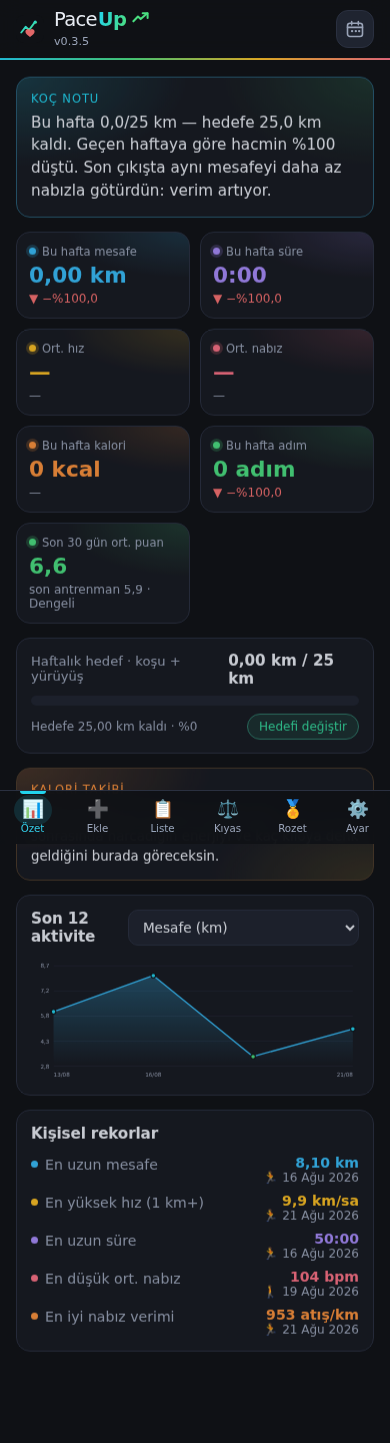
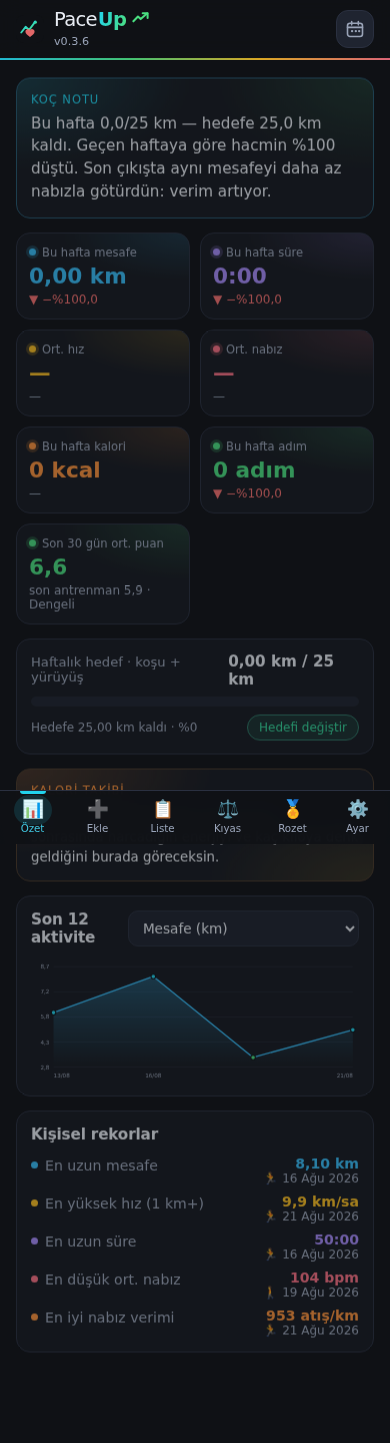
v0.3.6: kilitli rozetlerde eksik mesafe yerine gereken olcut yaziliyor
"Tek kosuda 1,00 km daha" ifadesi, onceki kosunun uzerine ekleniyormus gibi
okunuyordu. Kilitli kartlar artik once ne gerektigini, sonra nerede oldugunu
yaziyor:

- Tek antrenman: "Tek cikista 3 km kosu" + "En uzun kosun: 2,00 km"
- Toplam kosu: "Toplamda 30 km kosu" + "Su an 24,00 km · 6,00 km kaldi"
- Haftalik: "Bir haftada 5 antrenman" + "En yogun haftan: 3 antrenman"
- Seri: "7 gun ust uste antrenman" + "En uzun serin: 4 gun"

Ozet kartindaki siradaki hedef de ayni dile gecti: "Siradaki: Uc bin —
tek cikista 3 km".

Claude-Session: https://claude.ai/code/session_01DCsTEoeQYYAT5YEcPqUbg1

diff --git a/js/app.js b/js/app.js
@@ -11,7 +11,7 @@ import {
   fmtHr, fmtDate, todayIso, fmtPercent,
 } from './format.js';
 
-const APP_VERSION = '0.3.5';
+const APP_VERSION = '0.3.6';
 const $ = (sel) => document.querySelector(sel);
 const $$ = (sel) => [...document.querySelectorAll(sel)];
 
@@ -667,12 +667,44 @@ const MEDAL = (color, on) => `
             stroke-linecap="round"/>`}
   </svg>`;
 
-function badgeProgressText(state) {
+// Kilitli rozette ölçütü tam olarak yazar: "ne gerekiyor" + "şu an neredesin".
+// Tek antrenman rozetlerinde eksik mesafe DEĞİL, gereken mesafe gösterilir —
+// önceki koşuların üstüne eklenmediği net olsun diye.
+const targetKm = (km) => `${fmtNum(km, Number.isInteger(km) ? 0 : 1)} km`;
+
+function badgeRequirement(state) {
+  const { badge, current, remaining } = state;
+  if (badge.kind === 'weekly') {
+    return {
+      need: `Bir haftada ${badge.target} antrenman`,
+      now: `En yoğun haftan: ${current} antrenman`,
+    };
+  }
+  if (badge.kind === 'streak') {
+    return {
+      need: `${badge.target} gün üst üste antrenman`,
+      now: `En uzun serin: ${current} gün`,
+    };
+  }
+  if (badge.kind === 'total') {
+    return {
+      need: `Toplamda ${targetKm(badge.target)} koşu`,
+      now: `Şu an ${fmtKm(current)} · ${fmtKm(remaining)} kaldı`,
+    };
+  }
+  return {
+    need: `Tek çıkışta ${targetKm(badge.target)} koşu`,
+    now: current > 0 ? `En uzun koşun: ${fmtKm(current)}` : 'Henüz koşu kaydın yok',
+  };
+}
+
+// Özet kartındaki "sıradaki hedef" için kısa hâli
+function badgeShortNeed(state) {
   const { badge, remaining } = state;
-  if (badge.kind === 'weekly') return `${Math.ceil(remaining)} antrenman daha`;
-  if (badge.kind === 'streak') return `${Math.ceil(remaining)} gün daha`;
-  if (badge.kind === 'total') return `Toplamda ${fmtKm(remaining)} daha`;
-  return `Tek koşuda ${fmtKm(remaining)} daha`;
+  if (badge.kind === 'weekly') return `bir haftada ${badge.target} antrenman`;
+  if (badge.kind === 'streak') return `${badge.target} gün üst üste`;
+  if (badge.kind === 'total') return `toplamda ${fmtKm(remaining)} daha`;
+  return `tek çıkışta ${targetKm(badge.target)}`;
 }
 
 function badgeEarnedText(state) {
@@ -705,7 +737,7 @@ function renderBadges() {
       <div class="goal-bar"><i style="width:${(earned.length / states.length) * 100}%"></i></div>
       <div class="muted">${earned.length
         ? `Ulaştığın en üst kademe: <b style="color:var(--text)">${topLevel}</b>.${next
-            ? ` Sıradaki: <b style="color:var(--text)">${next.badge.title} (${next.badge.name})</b> — ${badgeProgressText(next)}.`
+            ? ` Sıradaki: <b style="color:var(--text)">${next.badge.title}</b> — ${badgeShortNeed(next)}.`
             : ' Tüm rozetleri topladın.'}`
         : 'Henüz rozet yok. İlk kaydını ekle, merdiven açılmaya başlasın.'}</div>
     </div>`;
@@ -732,8 +764,9 @@ function renderBadges() {
             ${on
               ? `<div class="earned-tag">Kazanıldı</div>
                  <div class="bmeta">${badgeEarnedText(state)}</div>`
-              : `<div class="bbar"><i style="width:${(progress * 100).toFixed(0)}%"></i></div>
-                 <div class="bmeta">${badgeProgressText(state)}</div>`}
+              : `<div class="need">${badgeRequirement(state).need}</div>
+                 <div class="bbar"><i style="width:${(progress * 100).toFixed(0)}%"></i></div>
+                 <div class="bmeta">${badgeRequirement(state).now}</div>`}
           </div>`;
         }).join('')}
       </div>

diff --git a/css/styles.css b/css/styles.css
@@ -562,6 +562,9 @@ button:active { transform: translateY(1px); }
   font-size: 0.72rem; color: var(--muted); line-height: 1.45;
   border-top: 1px solid var(--line); padding-top: 8px; margin-top: 2px;
 }
+.badge .need {
+  font-size: 0.78rem; font-weight: 650; color: var(--text);
+}
 .badge .bcrit {
   font-size: 0.66rem; color: var(--muted);
   border: 1px solid var(--line); border-radius: 999px; padding: 2px 8px;

diff --git a/index.html b/index.html
@@ -28,7 +28,7 @@
                 stroke-width="2.4" stroke-linecap="round" stroke-linejoin="round"/>
         </svg>
       </h1>
-      <span class="ver" id="appVersion">v0.3.5</span>
+      <span class="ver" id="appVersion">v0.3.6</span>
     </div>
   </div>
   <div class="topbar-actions">

diff --git a/sw.js b/sw.js
@@ -1,5 +1,5 @@
 // Basit önbellek: uygulama kabuğu offline çalışsın.
-const VERSION = 'paceup-v0.3.5';
+const VERSION = 'paceup-v0.3.6';
 const ASSETS = [
   './',
   './index.html',

diff --git a/README.md b/README.md
@@ -4,7 +4,7 @@ Koşularını ve yürüyüşlerini kaydettiğin, nabız / mesafe / tempo değerl
 arasında kıyaslayan küçük bir PWA. Derleme adımı yok: saf HTML + CSS + ES modülleri.
 Veriler yalnızca cihazda (`localStorage`) tutulur, hiçbir yere gönderilmez.
 
-**Sürüm:** v0.3.5
+**Sürüm:** v0.3.6
 
 ## Neler var
 
@@ -145,6 +145,11 @@ düzeltirsen rozet durumu da kendiliğinden düzelir.
 | Beşli hafta | Bir takvim haftasında 5 antrenman | Deneyimli |
 | Bir hafta seri | 7 gün üst üste aktif | Deneyimli |
 | Bir ay seri | 30 gün üst üste aktif | Profesyonel |
+
+Kilitli rozetler, eksik kalan mesafeyi değil **gereken ölçütü** yazar: tek antrenman
+rozetlerinde "Tek çıkışta 5 km koşu" ve altında "En uzun koşun: 2,00 km". Böylece
+önceki koşuların üstüne eklendiği izlenimi doğmaz. Birikimli rozetlerde ise
+"Toplamda 30 km koşu" ve "Şu an 24,00 km · 6,00 km kaldı" gösterilir.
 
 Süreklilik rozetlerinde "en yoğun hafta" ve "en uzun seri" tüm geçmiş taranarak
 bulunur; kazanıldığında hangi hafta ya da hangi tarih aralığı olduğunu da yazar.
